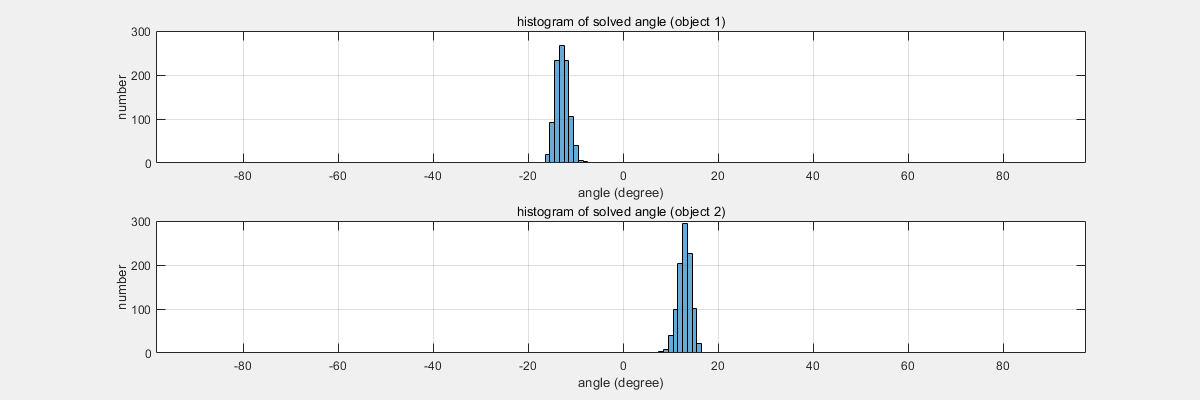
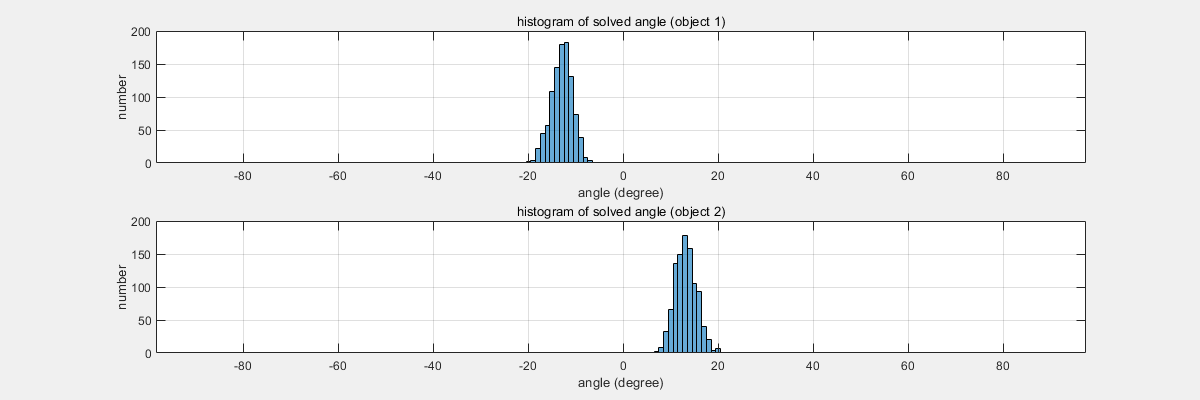
- [MINOR] [DOC] [BUGFIX] 1. survey_dml a. experiments results corrected

diff --git a/doc/survey_dml/source/仿真对比/主页.rst b/doc/survey_dml/source/仿真对比/主页.rst
@@ -117,7 +117,7 @@
         DATA_DLT_ANG_TST = 1;               % data   of test angles' delta  in degree
         DATA_RNG_ANG_TST = 89;              % data   of test angles' range  in degree
 
-*   首先，保持物体的相位随机，得到的均方误差是：5.42，5.44
+*   首先，保持物体的相位随机，得到的均方误差约等于5.5（，DBF算法在同等情况下的均方误差约等于900）
 
     ::
 
@@ -127,31 +127,31 @@
 
     \
 
-*   强制令物体的相位差为0，得到的均方误差是：3.37，3.37
+*   强制令物体的相位差为0.0 pi，得到的均方误差约等于3.4（，DBF算法在同等情况下的均方误差约等于30）
 
     ::
 
-        datPha = exp(-1i * 2 * pi * 0);
+        datPha = exp(-1i * 2 * pi * 0.00 * idxObj);
 
     .. image:: 信号相位_DML_有噪情况_统计结果_±13度_0.0pi相位.png
 
     \
 
-*   强制令物体的相位差为pi/2，得到的均方误差是：2.04，2.08
+*   强制令物体的相位差为0.5 pi，得到的均方误差约等于5.5（，DBF算法在同等情况下的均方误差约等于1400）
 
     ::
 
-        datPha = exp(-1i * 2 * pi * 0.25);
+        datPha = exp(-1i * 2 * pi * 0.25 * idxObj);
 
     .. image:: 信号相位_DML_有噪情况_统计结果_±13度_0.5pi相位.png
 
     \
 
-*   强制令物体的相位差为pi，得到的均方误差是：2.00，1.83
+*   强制令物体的相位差为1.0 pi，得到的均方误差约等于2.3（，DBF算法在同等情况下的均方误差约等于2100）
 
     ::
 
-        datPha = exp(-1i * 2 * pi * 0.5);
+        datPha = exp(-1i * 2 * pi * 0.50 * idxObj);
 
     .. image:: 信号相位_DML_有噪情况_统计结果_±13度_1.0pi相位.png
 

diff --git a/doc/survey_dml/source/背景说明/主页.rst b/doc/survey_dml/source/背景说明/主页.rst
@@ -82,3 +82,5 @@
         = norm(P X)^2
 
     当 :math:`M != 1` 时，可将 :math:`\hat{R}` 分解成 :math:`\hat{X}(i) \hat{X}^H(i)` 并重新论证其等效性
+
+*   因此，BFM算法事实上可以视作DML算法在 :math:`\theta` 为标量时的特殊形式。
